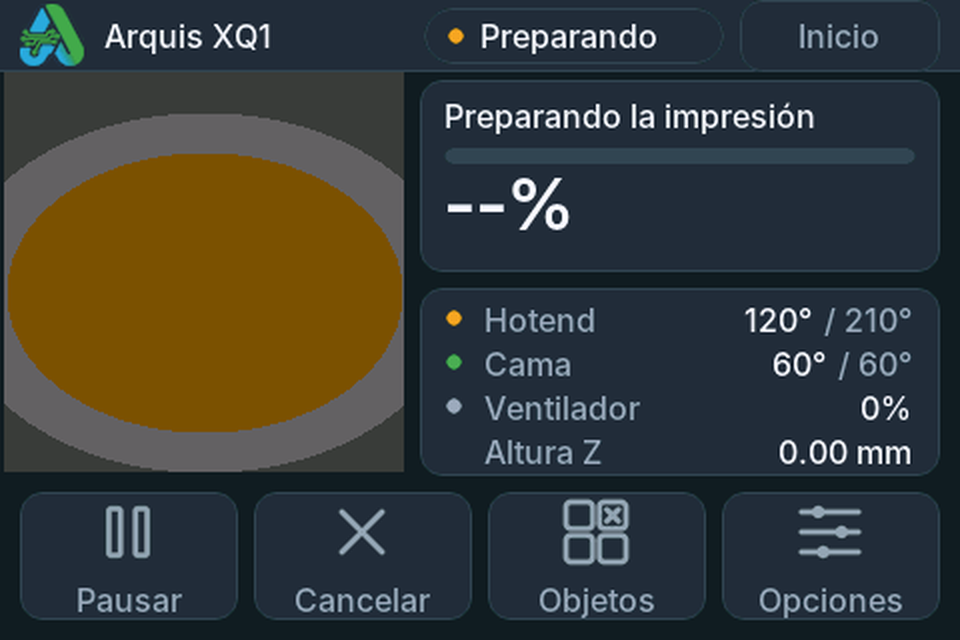
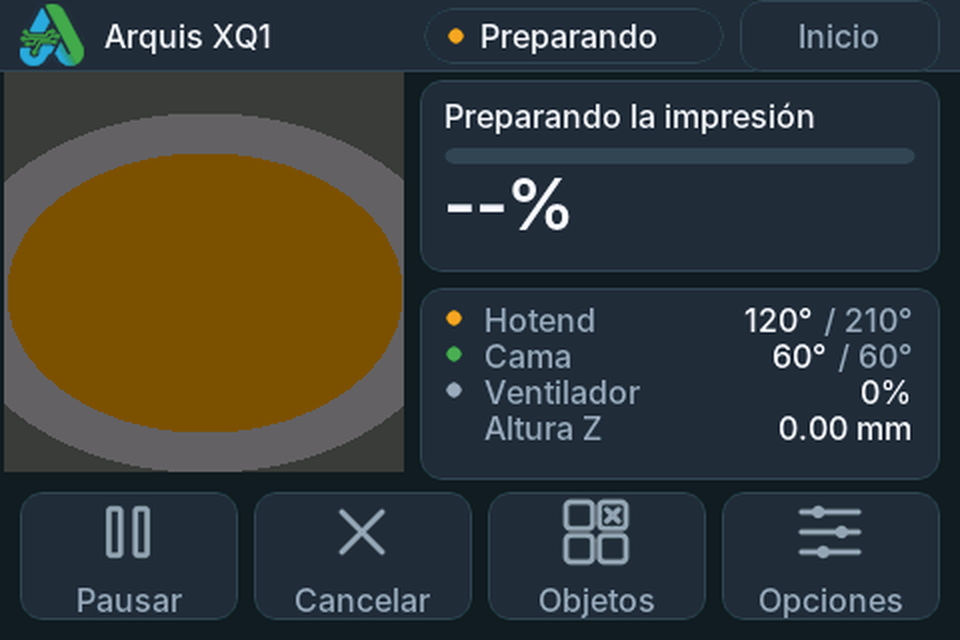
Pantalla de impresion: velocidad real del cabezal (actual y maxima alcanzada)
Nueva fila Veloc. en la supervision. Se deriva la posicion real de X e Y (planner.get_axis_position_mm, pasos ya ejecutados) en ventanas de
150 ms con suavizado; se ignoran saltos de posicion y el maximo se reinicia en cada impresion. La lista pasa a 5 filas compactas.
Logica pura con pruebas (logic_test.cpp), captura del simulador actualizada. Sin compilar con PlatformIO completo ni probado en la impresora.

Claude-Session: https://claude.ai/code/session_01Ss4jsb6xK8WqjwHxhEiDNU

Changed region(s): [[0.4375, 0.5312, 0.9688, 0.75]]

diff --git a/herramientas/arquis_ui/sim/logic_test.cpp b/herramientas/arquis_ui/sim/logic_test.cpp
@@ -2,6 +2,7 @@
 #include <stdio.h>
 #include <string.h>
 #include "arquis_logic.h"
+#include <math.h>
 static int fails = 0, total = 0;
 #define EXPECT(c, ...) do { ++total; if (!(c)) { ++fails; printf("FALLA  "); printf(__VA_ARGS__); printf("\n"); } } while (0)
 static arq_pstate_t st(bool stopped, bool paused, bool printing, int hc, int ht, int bc, int bt) {
@@ -113,6 +114,37 @@ int main() {
   EXPECT(!arq_finish_new_job(false, true), "terminada y archivo cerrado: el aviso sigue valido");
   EXPECT(!arq_finish_new_job(false, false), "tras M1001 (todo limpio): el aviso sigue valido");
   EXPECT(!arq_finish_new_job(true, true), "archivo abierto pero ya marcado como terminado: no es nueva");
+
+  // ---- Velocidad real del cabezal ----
+  {
+    arq_speed_t v; arq_speed_reset(&v);
+    arq_speed_sample(&v, 1000, 100, 100);                                   // primera muestra: solo guarda
+    EXPECT(arq_speed_cur_mms(&v) == 0 && arq_speed_peak_mms(&v) == 0, "velocidad: sin segunda muestra no hay valor");
+    arq_speed_sample(&v, 1100, 110, 100);                                   // 100 ms < ventana: se ignora
+    EXPECT(arq_speed_peak_mms(&v) == 0, "velocidad: menos de 150 ms no se calcula");
+    arq_speed_sample(&v, 1200, 120, 100);                                   // 20 mm en 200 ms = 100 mm/s
+    EXPECT(arq_speed_peak_mms(&v) == 100, "velocidad: 20 mm en 200 ms = 100 mm/s (maximo)");
+    EXPECT(arq_speed_cur_mms(&v) == 50, "velocidad: la actual esta suavizada (mitad en la primera ventana)");
+    arq_speed_sample(&v, 1400, 140, 100);                                   // otros 100 mm/s
+    EXPECT(arq_speed_cur_mms(&v) == 75, "velocidad: sigue subiendo hacia 100 (suavizado)");
+    arq_speed_sample(&v, 1600, 140, 100);                                   // quieto
+    EXPECT(arq_speed_cur_mms(&v) == 38 && arq_speed_peak_mms(&v) == 100, "velocidad: al parar baja y el maximo se conserva");
+    for (uint32_t t = 1800; t <= 3400; t += 200) arq_speed_sample(&v, t, 140, 100);
+    EXPECT(arq_speed_cur_mms(&v) == 0, "velocidad: quieto un rato = 0 mm/s");
+    arq_speed_sample(&v, 3600, 5140, 100);                                // salto de 5000 mm en 200 ms = 25000 mm/s: no es velocidad
+    EXPECT(arq_speed_peak_mms(&v) == 100, "velocidad: un salto de posicion (G92, home) se ignora");
+    arq_speed_sample(&v, 3800, 5140 + 40, 100);                              // 40 mm en 200 ms tras el salto = 200 mm/s: ya vale
+    EXPECT(arq_speed_peak_mms(&v) == 200, "velocidad: tras el salto vuelve a medir bien");
+    arq_speed_sample(&v, 4000, 5180 + 0, 100 + 30);                          // 30 mm en Y en 200 ms = 150 mm/s (menor que el maximo)
+    EXPECT(arq_speed_peak_mms(&v) == 200, "velocidad: el maximo no baja");
+    arq_speed_reset(&v);
+    EXPECT(arq_speed_cur_mms(&v) == 0 && arq_speed_peak_mms(&v) == 0 && !v.have, "velocidad: reset deja todo a cero");
+    arq_speed_t w; arq_speed_reset(&w);
+    arq_speed_sample(&w, 0xFFFFFF00u, 0, 0); arq_speed_sample(&w, 0x00000100u, 51.2f, 0);   // 512 ms a traves del desbordamiento de millis
+    EXPECT(arq_speed_peak_mms(&w) == 100, "velocidad: millis() desbordado (wrap) sigue midiendo bien");
+    arq_speed_t n; arq_speed_reset(&n); arq_speed_sample(&n, 0, 0, 0); arq_speed_sample(&n, 500, NAN, 0);
+    EXPECT(arq_speed_peak_mms(&n) == 0, "velocidad: NaN no se mide");
+  }
 
   printf("Pruebas de logica: %d de %d correctas%s\n", total - fails, total, fails ? "  <-- HAY FALLOS" : "");
   return fails ? 1 : 0;

diff --git a/Marlin/src/lcd/extui/mks_ui/arquis_widgets.cpp b/Marlin/src/lcd/extui/mks_ui/arquis_widgets.cpp
@@ -39,6 +39,7 @@ typedef struct {
 #define F_DISABLED 0x04
 #define F_SELECTED 0x08
 #define F_BAR      0x10
+#define F_COMPACT  0x20   // lista con filas mas juntas (ARQ_LIST_ROW_H_COMPACT): cabe una fila mas
 
 static bool focus_ring_visible;   // el anillo de foco solo se ve cuando la perilla mueve el foco (con uso tactil no debe verse)
 
@@ -190,11 +191,12 @@ static void draw_list(const lv_area_t *mask, const arq_card_ext_t *e, const lv_a
   lv_draw_rect(&a, mask, arq_style_panel(), LV_OPA_COVER);
   const lv_coord_t top = (e->title && e->title[0]) ? 26 : 0;       // titulo opcional sobre las filas
   if (top) draw_text(mask, x0 + 12, y0 + 6, e->title, arq_style_text((arq_text_t)e->title_role));
+  const lv_coord_t pitch = (e->flags & F_COMPACT) ? ARQ_LIST_ROW_H_COMPACT : ARQ_LIST_ROW_H;
   bool any_dot = false;                                              // sin puntos de estado, las etiquetas se alinean al borde
   for (uint8_t i = 0; i < e->nrows && i < ARQ_LIST_DRAW_MAX; ++i) if (e->rows[i].dot != ARQ_TINT_AUTO) any_dot = true;
   for (uint8_t i = 0; i < e->nrows && i < ARQ_LIST_DRAW_MAX; ++i) {
     const arq_list_row_t &r = e->rows[i];
-    const lv_coord_t ry = y0 + ARQ_LIST_PAD + top + i * ARQ_LIST_ROW_H;
+    const lv_coord_t ry = y0 + ARQ_LIST_PAD + top + i * pitch;
     if (r.dot != ARQ_TINT_AUTO) draw_dot(mask, x0 + 17, ry + 9, 4, (arq_tint_t)r.dot);
     draw_text(mask, x0 + (any_dot ? 32 : 12), ry, r.label, arq_style_text(ARQ_TEXT_MUTED));
     lv_coord_t rx = x0 + w - 14;
@@ -375,6 +377,7 @@ void arq_card_set_logo(lv_obj_t *c, bool s)                       { NN(c) arq_ca
 void arq_card_set_fans(lv_obj_t *c, arq_fan_row_t *rows, uint8_t n) { NN(c) arq_card_ext_t *e = ext(c); e->fans = rows; upd<uint8_t>(c, e->nfans, n); lv_obj_invalidate(c); }
 void arq_card_set_rows(lv_obj_t *c, arq_list_row_t *rows, uint8_t n) { NN(c) arq_card_ext_t *e = ext(c); e->rows = rows; e->nrows = n; lv_obj_invalidate(c); }
 void arq_card_set_selected(lv_obj_t *c, bool v)                   { NN(c) arq_card_ext_t *e = ext(c); const uint8_t f = v ? (e->flags | F_SELECTED) : (e->flags & ~F_SELECTED); upd<uint8_t>(c, e->flags, f); }
+void arq_card_set_compact(lv_obj_t *c, bool v)                    { NN(c) arq_card_ext_t *e = ext(c); const uint8_t f = v ? (e->flags | F_COMPACT) : (e->flags & ~F_COMPACT); upd<uint8_t>(c, e->flags, f); }
 void arq_card_set_show_bar(lv_obj_t *c, bool v)                   { NN(c) arq_card_ext_t *e = ext(c); const uint8_t f = v ? (e->flags | F_BAR) : (e->flags & ~F_BAR); upd<uint8_t>(c, e->flags, f); }
 void arq_card_set_kind(lv_obj_t *c, arq_btn_kind_t k)             { NN(c) upd<uint8_t>(c, ext(c)->kind, (uint8_t)k); }
 void arq_card_refresh(lv_obj_t *c)                                { NN(c) lv_obj_invalidate(c); }

diff --git a/Marlin/src/lcd/extui/mks_ui/arquis_print_view.cpp b/Marlin/src/lcd/extui/mks_ui/arquis_print_view.cpp
@@ -32,7 +32,7 @@
 #define JOB_Y    40
 #define JOB_H    96
 #define LIST_Y   (JOB_Y + JOB_H + ARQ_GAP)
-#define LIST_H   (ARQ_LIST_PAD + ARQ_LIST_ROWS_MAX * ARQ_LIST_ROW_H)
+#define LIST_H   (ARQ_LIST_PAD + ARQ_LIST_ROWS_MAX * ARQ_LIST_ROW_H_COMPACT)
 #define BTN_Y    246
 #define BTN_H    (ARQ_H - ARQ_MARGIN - BTN_Y)
 #define HOME_W   100
@@ -67,6 +67,7 @@ void arq_print_build(lv_obj_t *scr, lv_event_cb_t cb, const char *machine_name, 
   arq_card_set_value2(job, l1_txt);
   arq_card_set_sub(job, l2_txt, ARQ_TEXT_MUTED);
   list = arq_card_create(scr, COL_X, LIST_Y, COL_W, LIST_H, ARQ_LAYOUT_LIST, ARQ_BTN_SECONDARY, nullptr, 0);
+  arq_card_set_compact(list, true);                                   // 5 filas compactas: caben hotend, cama, ventilador, velocidad y Z
 
   // Botones de accion (fila inferior, a todo el ancho, como los accesos del Dashboard: icono arriba y texto debajo)
   const uint8_t n = with_objects ? 4 : 3;
@@ -138,6 +139,12 @@ void arq_print_update(const arq_snapshot_t *s, arq_pmode_t mode) {
   if (s->fan_n && n < ARQ_LIST_ROWS_MAX) {
     char v[10]; snprintf(v, sizeof(v), "%u%%", (unsigned)s->fan[0].pct);
     set_row(rows[n++], "Ventilador", v, "", s->fan[0].pct ? ARQ_TINT_OK : ARQ_TINT_MUTED);
+  }
+  if (s->job && n < ARQ_LIST_ROWS_MAX) {                             // velocidad REAL del cabezal (XY) y maxima alcanzada en esta impresion
+    char v[16], m[10];
+    snprintf(v, sizeof(v), "%u mm/s", (unsigned)s->speed_mms);
+    snprintf(m, sizeof(m), "m\xC3\xA1x %u", (unsigned)s->peak_mms);
+    set_row(rows[n++], "Veloc.", v, m, s->speed_mms ? ARQ_TINT_ACCENT : ARQ_TINT_MUTED);
   }
   if (n < ARQ_LIST_ROWS_MAX) {
     char v[16]; int32_t z = s->z_cmm < 0 ? -s->z_cmm : s->z_cmm;

diff --git a/Marlin/src/lcd/extui/mks_ui/arquis_logic.h b/Marlin/src/lcd/extui/mks_ui/arquis_logic.h
@@ -88,3 +88,21 @@ bool arq_finish_detect(arq_finish_state_t *st, const arq_finish_in_t *in);
 // true = una impresion NUEVA ha empezado mientras el aviso estaba aplazado (archivo abierto y sin haber terminado): hay que descartarlo.
 bool arq_finish_new_job(bool file_open, bool sd_done);
 
+// ---- Velocidad real del cabezal (funciones puras; las usa arquis_data.cpp) ------------------------------------------------------------
+// Se calcula derivando la posicion REAL de X e Y (la de los pasos ya ejecutados, no la de la cola) entre dos muestras: es la velocidad a la
+// que se mueve el cabezal de verdad, no la que pide el G-code. Se promedia en ventanas de ARQ_SPEED_WINDOW_MS como minimo.
+#define ARQ_SPEED_WINDOW_MS  150UL      // tiempo minimo entre dos muestras
+#define ARQ_SPEED_JUMP_MMS   1000.0f    // por encima es un salto de posicion (G92, home...), no un movimiento: se ignora
+
+typedef struct {
+  bool     have;                        // hay una muestra anterior
+  uint32_t t_ms;
+  float    x, y;                      // posicion de la muestra anterior (mm)
+  float    cur;                       // velocidad actual suavizada (mm/s)
+  float    peak;                      // velocidad maxima alcanzada desde el ultimo reset (mm/s)
+} arq_speed_t;
+
+void     arq_speed_reset(arq_speed_t *s);                                            // empieza de cero (nueva impresion / sin impresion)
+void     arq_speed_sample(arq_speed_t *s, uint32_t now_ms, float x, float y);        // llamar a menudo; solo calcula si pasaron >= ARQ_SPEED_WINDOW_MS
+uint16_t arq_speed_cur_mms(const arq_speed_t *s);                                    // redondeado, 0..9999
+uint16_t arq_speed_peak_mms(const arq_speed_t *s);

diff --git a/Marlin/src/lcd/extui/mks_ui/arquis_logic.cpp b/Marlin/src/lcd/extui/mks_ui/arquis_logic.cpp
@@ -21,6 +21,7 @@
  */
 
 #include "arquis_logic.h"
+#include <math.h>
 
 #include <stdio.h>
 
@@ -79,3 +80,22 @@ bool arq_finish_detect(arq_finish_state_t *st, const arq_finish_in_t *in) {
 
 bool arq_finish_new_job(bool file_open, bool sd_done) { return file_open && !sd_done; }
 
+// ---- Velocidad real del cabezal ----------------------------------------------------------------------------------------------------
+void arq_speed_reset(arq_speed_t *s) { s->have = false; s->t_ms = 0; s->x = s->y = 0; s->cur = s->peak = 0; }
+
+void arq_speed_sample(arq_speed_t *s, uint32_t now_ms, float x, float y) {
+  if (!(x == x) || !(y == y)) return;                              // NaN: no se mide
+  if (!s->have) { s->have = true; s->t_ms = now_ms; s->x = x; s->y = y; return; }
+  const uint32_t dt = now_ms - s->t_ms;                            // aritmetica sin signo: vale aunque el contador de ms desborde
+  if (dt < ARQ_SPEED_WINDOW_MS) return;
+  const float dx = x - s->x, dy = y - s->y;
+  const float v = sqrtf(dx * dx + dy * dy) * 1000.0f / (float)dt;
+  s->t_ms = now_ms; s->x = x; s->y = y;
+  if (!(v <= ARQ_SPEED_JUMP_MMS)) return;                          // salto de posicion (o NaN): no es velocidad
+  s->cur = 0.5f * s->cur + 0.5f * v;                               // suavizado: la cifra no salta de una lectura a otra
+  if (v > s->peak) s->peak = v;
+}
+
+static uint16_t speed_u16(float v) { return v <= 0 ? 0 : v >= 9999.0f ? 9999 : (uint16_t)(v + 0.5f); }
+uint16_t arq_speed_cur_mms(const arq_speed_t *s)  { return speed_u16(s->cur); }
+uint16_t arq_speed_peak_mms(const arq_speed_t *s) { return speed_u16(s->peak); }

diff --git a/Marlin/src/lcd/extui/mks_ui/arquis_data.cpp b/Marlin/src/lcd/extui/mks_ui/arquis_data.cpp
@@ -32,6 +32,7 @@
 #include "../../../module/temperature.h"
 #include "../../../module/printcounter.h"
 #include "../../../module/motion.h"
+#include "../../../module/planner.h"
 #include "../../../sd/cardreader.h"
 
 #include <string.h>
@@ -61,6 +62,14 @@ static uint8_t job_percent() {
 
 bool arq_data_job_active() { return printingIsActive() || printingIsPaused(); }
 
+// Velocidad real: posicion de X e Y segun los pasos YA EJECUTADOS por el stepper (planner.get_axis_position_mm, la misma que usa M114 D),
+// derivada en el tiempo. Solo se mide durante una impresion; al terminar se pone a cero y la siguiente empieza con el maximo en cero.
+static arq_speed_t speed;
+void arq_data_speed_poll() {
+  if (!arq_data_job_active()) { if (speed.have || speed.peak > 0) arq_speed_reset(&speed); return; }
+  arq_speed_sample(&speed, (uint32_t)millis(), planner.get_axis_position_mm(X_AXIS), planner.get_axis_position_mm(Y_AXIS));
+}
+
 void arq_data_read(arq_snapshot_t *s) {
   memset(s, 0, sizeof(*s));                                  // incluye el relleno: permite comparar con memcmp
 
@@ -87,6 +96,8 @@ void arq_data_read(arq_snapshot_t *s) {
       s->fan[s->fan_n++] = { ARQ_FAN_AUX, f, (uint8_t)thermalManager.fanSpeedPercent(f) };
   #endif
 
+  s->speed_mms = arq_speed_cur_mms(&speed);
+  s->peak_mms  = arq_speed_peak_mms(&speed);
   s->z_cmm = (int32_t)(current_position.z * 100.0f + (current_position.z >= 0 ? 0.5f : -0.5f));
 
   // --- Estado de impresion (funciones reales de Marlin) ---

diff --git a/Marlin/src/lcd/extui/mks_ui/arquis_widgets.h b/Marlin/src/lcd/extui/mks_ui/arquis_widgets.h
@@ -102,11 +102,13 @@ void arq_card_set_fans(lv_obj_t *c, arq_fan_row_t *rows, uint8_t n);
 
 // Lista de datos (ARQ_LAYOUT_LIST): el llamador conserva el arreglo de filas
 typedef struct { const char *label; char v1[16]; char v2[10]; uint8_t dot; } arq_list_row_t;   // dot: arq_tint_t (ARQ_TINT_AUTO = sin punto)
-#define ARQ_LIST_ROWS_MAX 4          // filas de la lista de la supervision (altura fija de su tarjeta)
+#define ARQ_LIST_ROWS_MAX 5          // filas de la lista de la supervision (altura fija de su tarjeta; usa filas compactas)
 #define ARQ_LIST_DRAW_MAX 8          // filas que puede dibujar cualquier lista
 #define ARQ_LIST_ROW_H    22
+#define ARQ_LIST_ROW_H_COMPACT 18    // paso de fila con arq_card_set_compact()
 #define ARQ_LIST_PAD      6
 void arq_card_set_rows(lv_obj_t *c, arq_list_row_t *rows, uint8_t n);
+void arq_card_set_compact(lv_obj_t *c, bool compact);        // ARQ_LAYOUT_LIST: filas de ARQ_LIST_ROW_H_COMPACT en vez de ARQ_LIST_ROW_H
 
 // Dialogo de confirmacion (modal, sobre la capa superior). Solo uno abierto a la vez: 4 objetos (3 si es informativo), se liberan al cerrar.
 // cancel_text == nullptr -> dialogo informativo con un solo boton (ok_text).

diff --git a/Marlin/src/lcd/extui/mks_ui/arquis_data.h b/Marlin/src/lcd/extui/mks_ui/arquis_data.h
@@ -45,6 +45,8 @@ typedef struct {
   uint32_t     elapsed_s;    // tiempo de impresion de Marlin (print_job_timer)
   uint32_t     remaining_s;  // 0 = desconocido (no se inventa)
   int32_t      z_cmm;        // altura Z actual en centesimas de mm (current_position.z, el mismo valor que muestra la interfaz original)
+  uint16_t     speed_mms;    // velocidad real del cabezal en XY (mm/s), solo durante una impresion; 0 si esta quieto
+  uint16_t     peak_mms;     // velocidad maxima alcanzada en esta impresion (mm/s)
   char         file[44];
 } arq_snapshot_t;
 
@@ -54,3 +56,4 @@ static inline bool arq_snapshot_equal(const arq_snapshot_t *a, const arq_snapsho
 // Lectura real (arquis_data.cpp): solo se enlaza dentro de Marlin; el simulador de PC no la usa.
 void arq_data_read(arq_snapshot_t *s);   // rellena el snapshot con los valores actuales de Marlin
 bool arq_data_job_active();              // imprimiendo o en pausa
+void arq_data_speed_poll();              // medir la velocidad real del cabezal; llamar en cada pasada del bucle de la pantalla (arq_print_poll)

diff --git a/herramientas/arquis_ui/stub/module/planner.h b/herramientas/arquis_ui/stub/module/planner.h
@@ -1,7 +1,9 @@
 // STUB: planner.h real: static int16_t flow_percentage[EXTRUDERS]; static void refresh_e_factor(const uint8_t e)
 #pragma once
 #include <stdint.h>
-class Planner { public: static int16_t flow_percentage[1]; static void refresh_e_factor(const uint8_t e);
+#include "motion.h"   // AxisEnum
+class Planner { public: static float get_axis_position_mm(const AxisEnum axis);   // firma real de planner.h (2.1.2.10): posicion segun los pasos del stepper
+  static int16_t flow_percentage[1]; static void refresh_e_factor(const uint8_t e);
   static bool leveling_active; static float z_fade_height; static bool has_blocks_queued(); static void synchronize();
   // firmas reales de planner.h (2.1.2.10): planner_settings_t { max_acceleration_mm_per_s2[], acceleration, retract_acceleration, travel_acceleration }, extruder_advance_K[], junction_deviation_mm
   struct planner_settings_t { uint32_t max_acceleration_mm_per_s2[4]; float acceleration, retract_acceleration, travel_acceleration; };

diff --git a/herramientas/arquis_ui/sim/arquis_sim.cpp b/herramientas/arquis_ui/sim/arquis_sim.cpp
@@ -86,7 +86,7 @@ static arq_snapshot_t make(arq_pstate_t st) {
     case ARQ_PS_COOLING: s.hot.cur = 118; s.hot.tgt = 0; s.bed.cur = 41; s.bed.tgt = 0; s.fan[0].pct = 100; break;
     case ARQ_PS_PRINTING: case ARQ_PS_PAUSED:
       s.hot.cur = 209; s.hot.tgt = 210; s.bed.cur = 60; s.bed.tgt = 60; s.fan[0].pct = 85; s.fan[1].pct = 40;
-      s.job = s.sd_job = true; s.pct = 62; s.elapsed_s = 2 * 3600 + 15 * 60; s.remaining_s = arq_remaining_s(s.elapsed_s, s.pct);
+      s.job = s.sd_job = true; s.pct = 62; s.speed_mms = 87; s.peak_mms = 214; s.elapsed_s = 2 * 3600 + 15 * 60; s.remaining_s = arq_remaining_s(s.elapsed_s, s.pct);
       strcpy(s.file, "soporte_motor_nema17_v3_final.gcode");
       if (st == ARQ_PS_PAUSED) { s.hot.cur = 205; s.fan[0].pct = 0; }
       break;

diff --git a/Marlin/src/lcd/extui/mks_ui/arquis_print.cpp b/Marlin/src/lcd/extui/mks_ui/arquis_print.cpp
@@ -204,6 +204,7 @@ static void show_finish() {
 bool arq_print_dialog_open() { return arq_dialog_is_open(); }
 
 void arq_print_poll() {
+  arq_data_speed_poll();                            // velocidad real del cabezal: se muestrea en cada pasada (no solo cada segundo)
   #if HAS_MEDIA
     if (card.isFileOpen()) {                          // recordar el nombre: al terminar el archivo ya esta cerrado
       const char *n = card.longest_filename();

diff --git a/CAMBIOS.md b/CAMBIOS.md
@@ -164,3 +164,5 @@ Los valores de cada impresora (medidas, pasos/mm, sentidos, finales de carrera, 
 ## Rendimiento: pantalla de ajustes de movimiento y torres de prueba
 **Ajustes → Rendimiento** (TS35): aceleraciones (M204/M201), Linear Advance K (M900), Junction Deviation (M205 J) e Input Shaping X/Y (M593) con límites, paso fino/grueso, Guardar (M500) y Restaurar. Solo con la impresora quieta. En `herramientas/torres/` hay un generador de torres de prueba (ringing por frecuencia y por aceleración, K, caudal máximo) que cambian un valor por tramo, verifican su G-code antes de escribirlo y terminan con `M501`; archivos listos para el XQ1 (PLA) en `herramientas/torres/listos/`. Ver `docs/arquis/RENDIMIENTO.md`. **Sin probar en la impresora.** Flash estimada +4,7 KB: mira el uso real con `pio run`.
 
+## Velocidad real en la pantalla de impresión
+Nueva fila **Veloc.** en la supervisión: velocidad real del cabezal en XY (mm/s) y la máxima alcanzada en esa impresión. Se calcula derivando la posición real de X e Y (`planner.get_axis_position_mm`, pasos ya ejecutados) en ventanas de 0,15 s, con suavizado; los saltos de posición (G92, home) se ignoran y el máximo se reinicia con cada impresión. La lista de la supervisión pasa a 5 filas compactas (18 px). Lógica pura y probada en `herramientas/arquis_ui/sim/logic_test.cpp`; **no compilado con PlatformIO ni probado en la impresora**.
